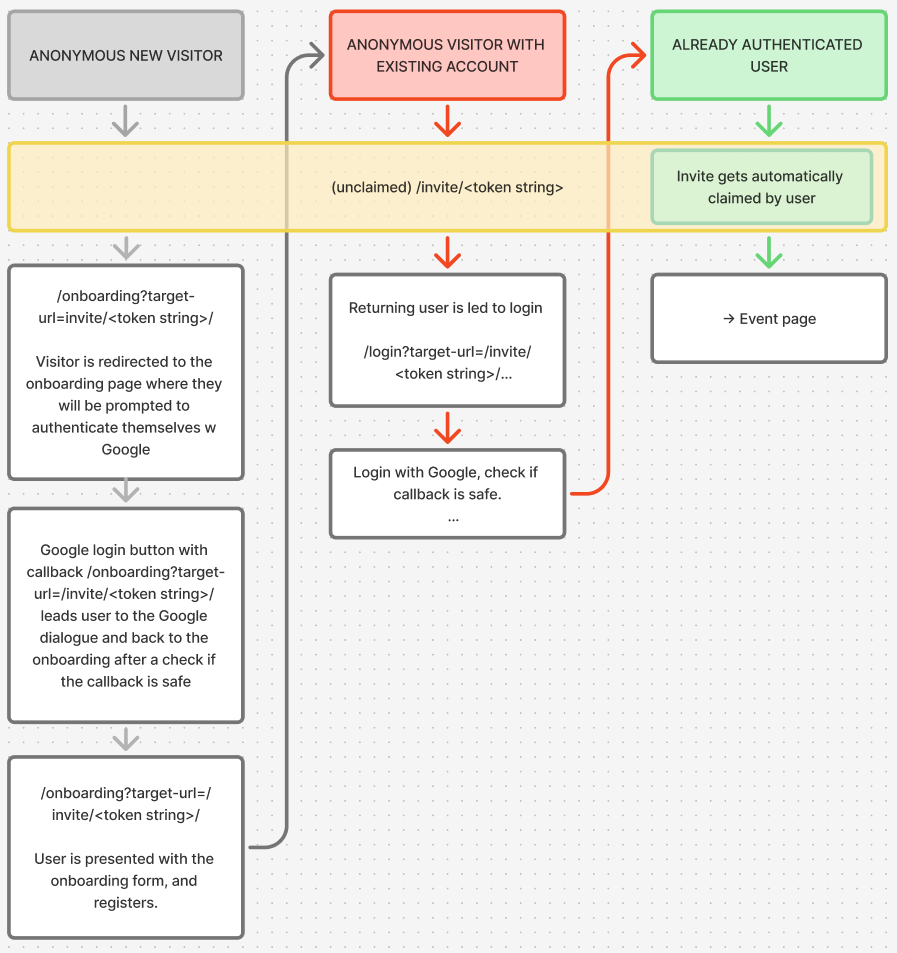
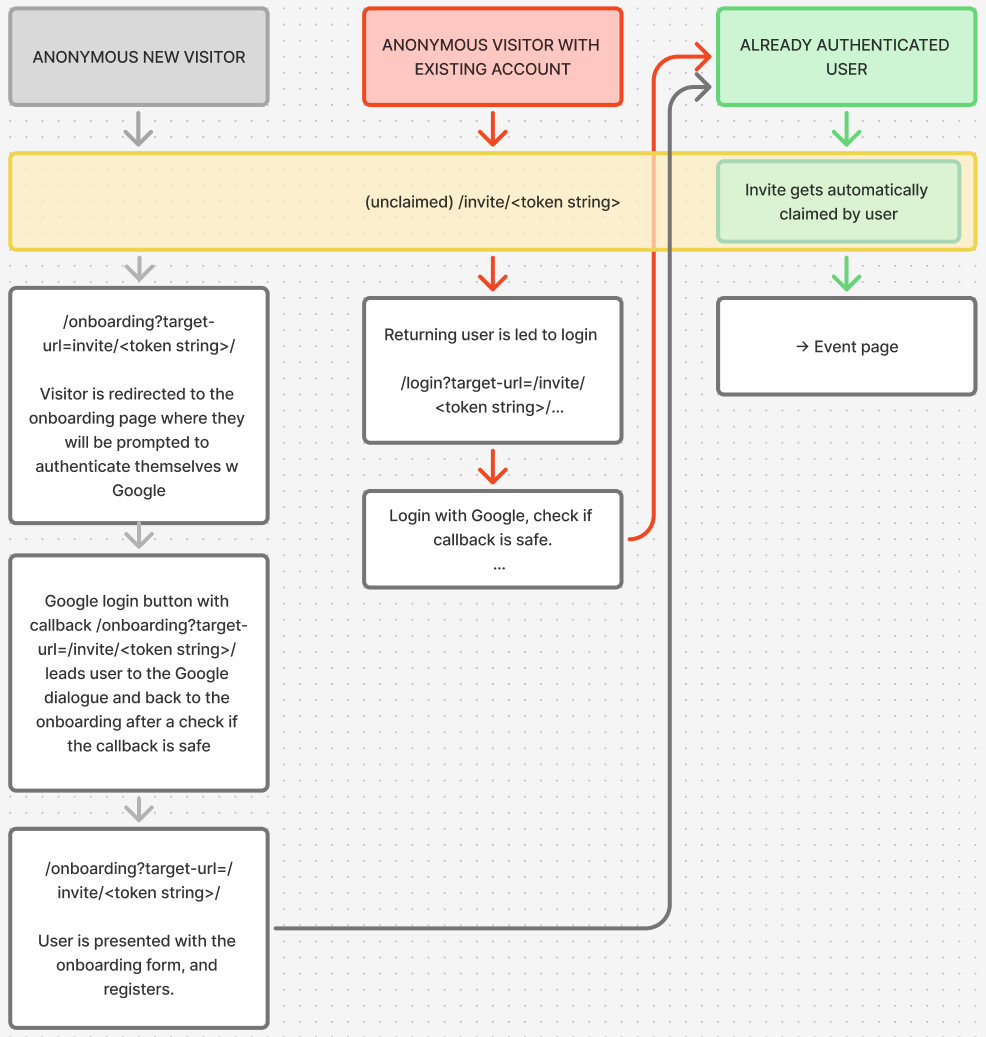
add contributions CRUD (DAL, event/user services), add optional description to Contribution schema, auto-invite host on event creation, restructure event details page layout, update progress log

Changed region(s): [[0.0, 0.0, 0.9989, 1.0], [0.0, 0.0, 0.2809, 0.0609], [0.8428, 0.3347, 0.9052, 0.3652]]

diff --git a/app/dashboard/events/[id]/page.tsx b/app/dashboard/events/[id]/page.tsx
@@ -3,6 +3,10 @@
 import { getCurrentUserId } from "@/features/auth/services/getCurrentUserId";
 import EventDetails from "@/features/dashboard/components/EventDetails";
 import { getEventDetails } from "@/features/dashboard/services/getEventDetails";
+import FeatureHeadline from "@/ui/components/FeatureHeadline";
+import GuestList from "@/features/dashboard/components/GuestList";
+import { getContributionsByEvent } from "@/features/dashboard/services/getContributionsByEvent";
+import ContributionsList from "@/features/dashboard/components/ContributionsList";
 
 export default async function Page({
   params,
@@ -15,12 +19,30 @@ export default async function Page({
   const userId = await getCurrentUserId();
   if (!userId) return <h2>User not signed in</h2>; //SHOULD BE REPLACED WITH A REDIRECT TO SOMETHING THAT PROMPTS USER TO SIGN IN
 
+  const contributions = await getContributionsByEvent(event.id);
+
   return (
-    <EventDetails
-      event={event}
-      date={event.date.toLocaleDateString()}
-      time={event.date.toLocaleTimeString().slice(0, -3)}
-      role={userId === event.hostId ? "host" : "guest"}
-    />
+    <>
+      {" "}
+      <header className="col-span-2 col-start-2 row-start-1 p-10">
+        <FeatureHeadline>{event.occasion}</FeatureHeadline>
+      </header>
+      <section className="col-span-1 col-start-2 row-start-2 px-10">
+        <EventDetails
+          event={event}
+          date={event.date.toLocaleDateString()}
+          time={event.date.toLocaleTimeString().slice(0, -3)}
+          role={userId === event.hostId ? "host" : "guest"}
+        />
+      </section>
+      <section className="col-span-1 col-start-3 row-start-2 px-10">
+        {" "}
+        <GuestList guests={event.guests} />
+      </section>
+      <section className="col-span-1 col-start-4 row-start-2 px-10">
+        {" "}
+        <ContributionsList contributions={contributions} />
+      </section>
+    </>
   );
 }

diff --git a/app/dashboard/profile/page.tsx b/app/dashboard/profile/page.tsx
@@ -1,0 +1,31 @@
+"use server";
+
+import { getCurrentUser } from "@/features/auth/services/getCurrentUser";
+import FeatureHeadline from "@/ui/components/FeatureHeadline";
+import { redirect } from "next/navigation";
+
+export default async function ProfilePage() {
+  const currentUser = await getCurrentUser();
+  if (!currentUser?.onboarded) redirect("/login");
+
+  return (
+    <>
+      <header className="col-span-2 col-start-2 row-start-1 p-10">
+        <FeatureHeadline>Personal settings</FeatureHeadline>
+      </header>
+      <section className="col-span-3 col-start-2 row-start-2 p-10">
+        <h3>Name:</h3>
+        {currentUser.name}
+        <h3>Registered dietary avoidance:</h3>
+        {currentUser.avoids.length === 0 && "None registered"}
+        {currentUser.avoids.length > 0 && (
+          <ul>
+            {currentUser.avoids.map((avoid) => (
+              <li key={avoid}>{avoid}</li>
+            ))}
+          </ul>
+        )}
+      </section>
+    </>
+  );
+}

diff --git a/features/dashboard/services/getContributionsByUser.ts b/features/dashboard/services/getContributionsByUser.ts
@@ -1,0 +1,29 @@
+"server-only";
+import { getInvitesByUser } from "@/data/dal/invite/getInvitesByUser";
+
+export const getContributionsByUser = async (id: string) => {
+  const invites = await getInvitesByUser(id, "received");
+  const contributions: {
+    contributions: Awaited<
+      ReturnType<typeof getInvitesByUser>
+    >[number]["contributions"];
+    eventOccasion: string;
+    eventId: number;
+    inviteId: number;
+    guestId: string;
+    guestName: string;
+  }[] = [];
+
+  invites.forEach((invite) =>
+    contributions.push({
+      contributions: invite.contributions,
+      eventOccasion: invite.event.occasion,
+      eventId: invite.eventId,
+      inviteId: invite.id,
+      guestId: invite.guestId ?? "",
+      guestName: invite.guestName ?? "",
+    }),
+  );
+
+  return contributions;
+};

diff --git a/features/dashboard/services/getContributionsByEvent.ts b/features/dashboard/services/getContributionsByEvent.ts
@@ -1,0 +1,27 @@
+"server-only";
+import { getInvitesByEvent } from "@/data/dal/invite/getInvitesByEvent";
+
+export const getContributionsByEvent = async (id: number) => {
+  const invites = await getInvitesByEvent(Number(id));
+  const contributions: {
+    contribution: Awaited<
+      ReturnType<typeof getInvitesByEvent>
+    >[number]["contributions"][number];
+    inviteId: number;
+    guestId: string;
+    guestName: string;
+  }[] = [];
+
+  invites.forEach((invite) => {
+    invite.contributions.forEach((contribution) => {
+      contributions.push({
+        contribution: contribution,
+        inviteId: invite.id,
+        guestId: invite.guestId ?? "",
+        guestName: invite.guestName ?? "",
+      });
+    });
+  });
+
+  return contributions;
+};

diff --git a/features/dashboard/components/ContributionsList.tsx b/features/dashboard/components/ContributionsList.tsx
@@ -1,0 +1,24 @@
+"use client";
+
+import { getContributionsByEvent } from "../services/getContributionsByEvent";
+import { useState } from "react";
+
+export default function ContributionsList({
+  contributions,
+}: {
+  contributions: Awaited<ReturnType<typeof getContributionsByEvent>>;
+}) {
+  const [sortBy, setSortBy] = useState<"guestName" | "categories">("guestName");
+
+  return (
+    <ul>
+      <h3>Contributions:</h3>
+      {contributions.map((contribution) => (
+        <li key={contribution.inviteId}>
+          {contribution.contribution.name} -{" "}
+          {contribution.contribution.servings} servings
+        </li>
+      ))}
+    </ul>
+  );
+}

diff --git a/data/dal/contribution/getContribution.ts b/data/dal/contribution/getContribution.ts
@@ -1,0 +1,23 @@
+"server-only";
+
+import prisma from "@/prisma/utils/prismaUtils";
+
+export const getContribution = async (id: number) => {
+  const contribution = await prisma.contribution.findUnique({
+    where: { id: id },
+  });
+
+  if (!contribution) throw new Error("No matching contribution found");
+
+  const contributionData = {
+    name: contribution.name,
+    id: contribution.id,
+    description: contribution.description,
+    inviteId: contribution.inviteId,
+    servings: contribution.servings,
+    category: contribution.category,
+    contains: contribution.contains,
+  };
+
+  return contributionData;
+};

diff --git a/features/dashboard/services/createEvent.ts b/features/dashboard/services/createEvent.ts
@@ -1,15 +1,19 @@
 "use server";
 import { createEvent as createEventDAL } from "@/data/dal/event/createEvent";
-import { getCurrentUserId } from "@/features/auth/services/getCurrentUserId";
+import { createInvite as createInviteDAL } from "@/data/dal/invite/createInvite";
+import { getCurrentUser } from "@/features/auth/services/getCurrentUser";
 
 export const createEvent = async (formData: FormData) => {
   const occasion = formData.get("occasion") as string;
   const date = formData.get("date") as string;
 
   try {
-    const userId = await getCurrentUserId();
+    const user = await getCurrentUser();
 
-    if (!userId) throw new Error("Cannot create event without signed in user");
+    if (!user) throw new Error("Cannot create event without signed in user");
+
+    if (new Date(date) < new Date())
+      throw new Error("Event date must be in the future");
 
     const event = await createEventDAL({
       occasion,
@@ -19,10 +23,19 @@ export const createEvent = async (formData: FormData) => {
         : null,
       host: {
         connect: {
-          id: userId,
+          id: user.id,
         },
       },
     });
+
+    await createInviteDAL({
+      event: { connect: { id: event.id } },
+      invBy: { connect: { id: user.id } },
+      guest: { connect: { id: user.id } },
+      guestName: user?.name ?? "EVENT HOST",
+      status: "GOING",
+    });
+
     return event;
   } catch (error) {
     console.error("Error creating event:", error);

diff --git a/data/dal/contribution/updateContribution.ts b/data/dal/contribution/updateContribution.ts
@@ -1,0 +1,16 @@
+"server-only";
+
+import prisma from "@/prisma/utils/prismaUtils";
+import { Prisma } from "@/generated/prisma";
+
+type ContributionUpdateData = Prisma.ContributionUpdateInput;
+
+export const updateContribution = async (
+  id: number,
+  contributionData: ContributionUpdateData,
+) => {
+  return await prisma.contribution.update({
+    where: { id: id },
+    data: contributionData,
+  });
+};

diff --git a/data/dal/contribution/createContribution.ts b/data/dal/contribution/createContribution.ts
@@ -1,0 +1,14 @@
+"server-only";
+
+import prisma from "@/prisma/utils/prismaUtils";
+import { Prisma } from "@/generated/prisma";
+
+type ContributionCreateData = Prisma.ContributionCreateInput;
+
+export const createContribution = async (
+  contributionData: ContributionCreateData,
+) => {
+  return await prisma.contribution.create({
+    data: contributionData,
+  });
+};

diff --git a/data/dal/contribution/deleteContribution.ts b/data/dal/contribution/deleteContribution.ts
@@ -1,0 +1,10 @@
+"server-only";
+import prisma from "@/prisma/utils/prismaUtils";
+
+export const deleteContribution = async (id: number) => {
+  await prisma.contribution.delete({
+    where: {
+      id: id,
+    },
+  });
+};

diff --git a/features/dashboard/components/DashboardMenu.tsx b/features/dashboard/components/DashboardMenu.tsx
@@ -1,3 +1,11 @@
 export default function DashboardMenu() {
-  return <nav className="bg-card-background h-full"></nav>;
+  return (
+    <nav className="bg-card-background h-full">
+      <ul>
+        <li>Events</li>
+        <li>Personal settings</li>
+        <li>Create event</li>
+      </ul>
+    </nav>
+  );
 }

diff --git a/features/dashboard/components/EventDetails.tsx b/features/dashboard/components/EventDetails.tsx
@@ -33,7 +33,7 @@ export default function EventDetails({ event, date, time, role }: Props) {
   //if user is not host, add option to RSPV to the event
 
   return (
-    <div>
+    <>
       <h2>
         {eventHasBeen && "Past event - "}
         {event.deletedAt && "CANCELLED - "}
@@ -56,7 +56,7 @@ export default function EventDetails({ event, date, time, role }: Props) {
       )}
       <p>{event.location}</p>
       <p>Host: {role === "host" ? "This is your event!" : event.hostName}</p>
-      <GuestList guests={event.guests} />
+
       {role === "host" && !eventHasBeen && (
         <>
           {!event.deletedAt && <CreateInvite eventId={event.id} />}
@@ -65,6 +65,6 @@ export default function EventDetails({ event, date, time, role }: Props) {
           </Button>
         </>
       )}
-    </div>
+    </>
   );
 }